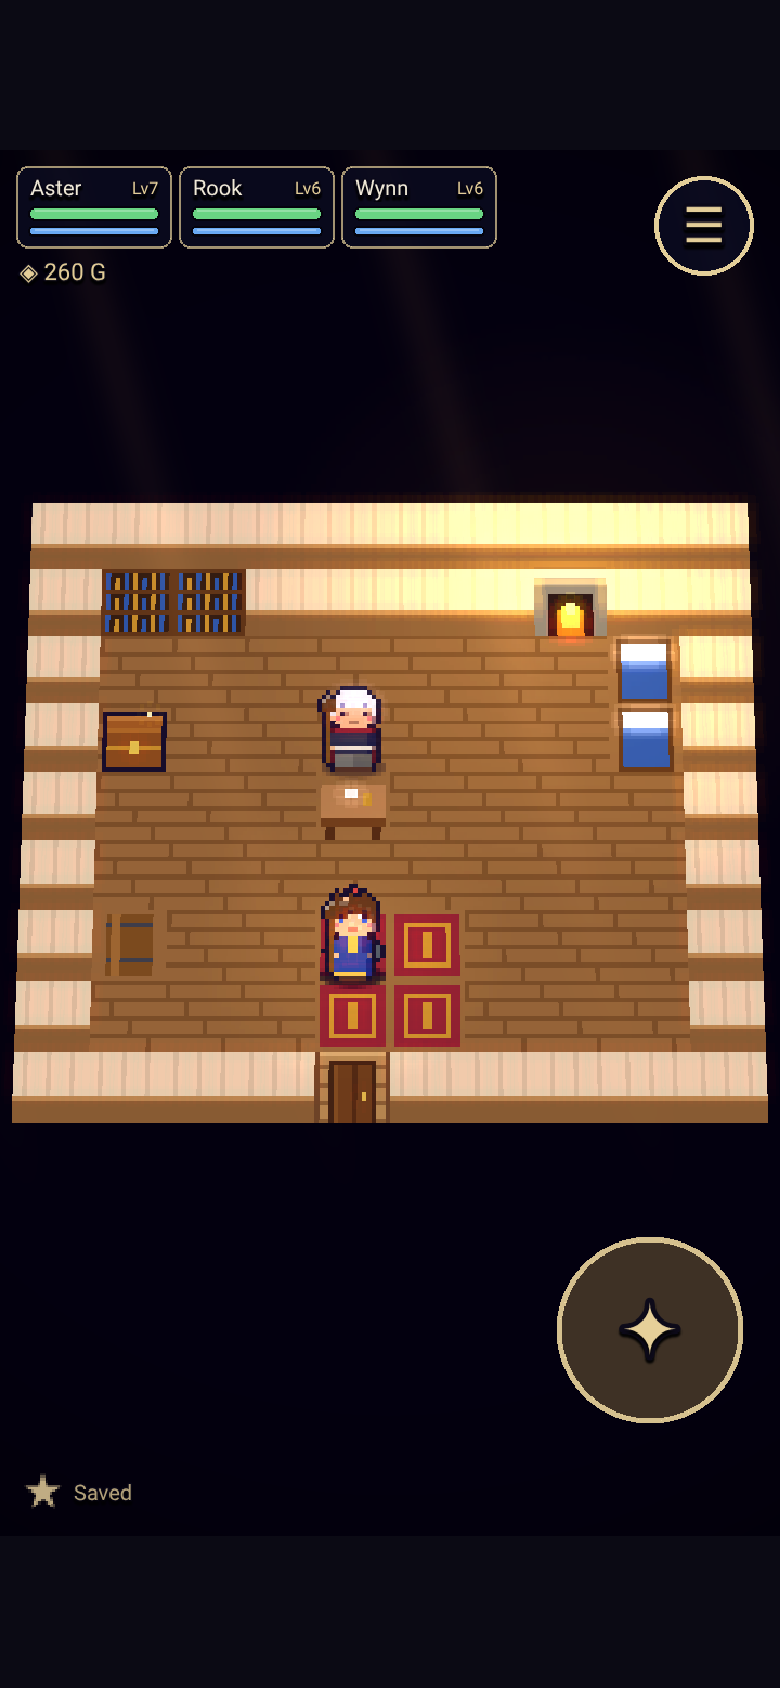
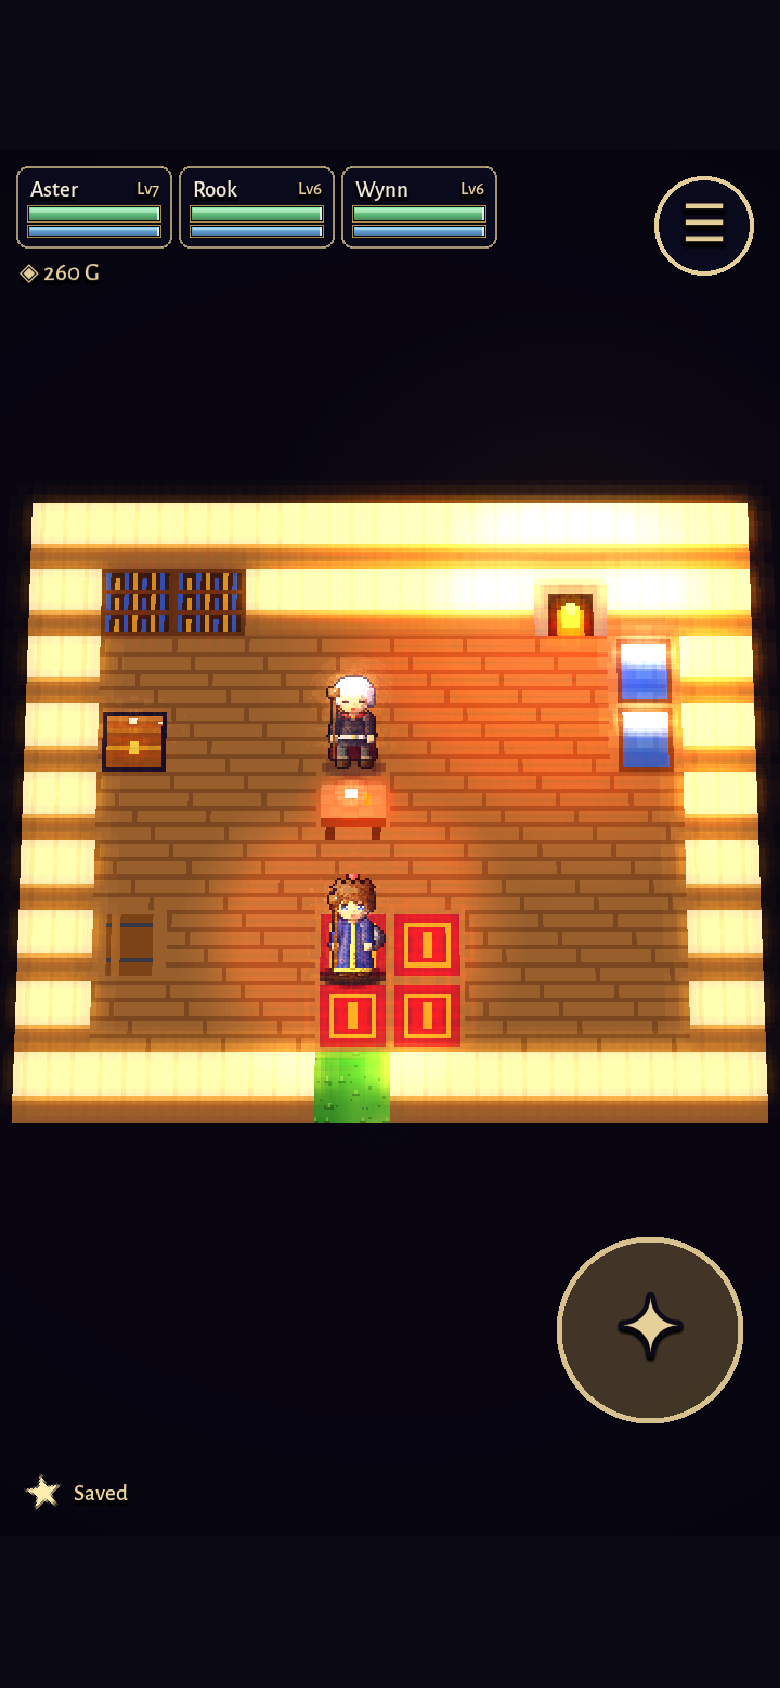
Battle: OT2-style dash attacks with camera lean + dust, ornate party cards with painted mini-portraits, bevelled gradient gauges

diff --git a/src/scenes/BattleScene.ts b/src/scenes/BattleScene.ts
@@ -1,6 +1,7 @@
 import { DioramaFX, diorama } from '../fx/diorama';
+import { ensurePortrait } from '../gfx/portrait';
 import Phaser from 'phaser';
-import { txt, panel, W, H, COL, ListMenu, drawBar, card, MenuItem, SERIF } from '../ui/widgets';
+import { txt, panel, drawPanel, W, H, COL, ListMenu, drawBar, card, MenuItem, SERIF } from '../ui/widgets';
 import { Input } from '../ui/input';
 import { Audio } from '../systems/audio';
 import { Game, stats, Member, skillsOf, gainXp } from '../systems/state';
@@ -72,7 +73,7 @@ export class BattleScene extends Phaser.Scene {
     this.party.forEach((m, i) => {
       const x = pn === 1 ? 590 : 545 + (i % 2) * 70 - (pn > 3 ? 10 : 0) + i * 12, y = pn === 1 ? 640 : 500 + i * (pn > 3 ? 72 : 88);
       const spr = this.add.sprite(x, y, ensureDollHd(this, specOf(m)), 3).setOrigin(0.5, 1).setScale(3.9).setDepth(y / 100);
-      spr.setData('hx', x);
+      spr.setData('hx', x); spr.setData('hy', y);
       this.tweens.add({ targets: spr, scaleY: 3.9 * 1.02, yoyo: true, repeat: -1, duration: 900 + i * 120, ease: 'Sine.inOut' });
       this.add.image(x, y - 4, 'shadow').setScale(6, 3).setDepth(-0.4);
       if (m.hp <= 0) spr.setTint(0x553355).setAngle(90);
@@ -85,15 +86,35 @@ export class BattleScene extends Phaser.Scene {
     this.run();
   }
   skip = false; bgImg?: Phaser.GameObjects.Image;
+  /** OT2-style run-up: the party member sprints to the target (walk cycle + dust), the camera leans in, then returns. */
+  dash(spr: Phaser.GameObjects.Sprite, x: number, y: number, out: boolean): Promise<void> {
+    return new Promise(res => {
+      if (fast()) { spr.setPosition(x, y); res(); return; }
+      const dir = out ? 1 : 2; let f = 0; const seq = [1, 0, 2, 0];
+      const tm = this.time.addEvent({ delay: 70, loop: true, callback: () => { spr.setFrame(dir * 3 + seq[f++ % 4]); } });
+      spr.setFlipX(!out && false); if (!out) spr.setFrame(6);
+      const dust = this.add.particles(0, 0, 'dot', { follow: spr, lifespan: 380, speedX: { min: out ? 20 : -20, max: out ? 80 : -80 }, speedY: { min: -30, max: -6 }, scale: { start: 1.6, end: 0 }, alpha: { start: 0.55, end: 0 }, tint: 0xd8c8a8, frequency: 30 }).setDepth(spr.depth - 0.01);
+      const cam = this.cameras.main;
+      if (out) { cam.zoomTo(1.07, 260, Phaser.Math.Easing.Quadratic.Out, true); cam.pan(W / 2 + (x - W / 2) * 0.35, H / 2 + (y - 120 - H / 2) * 0.25, 260, Phaser.Math.Easing.Quadratic.Out, true); }
+      else { cam.zoomTo(1, 320, Phaser.Math.Easing.Sine.InOut, true); cam.pan(W / 2, H / 2, 320, Phaser.Math.Easing.Sine.InOut, true); }
+      spr.setDepth(out ? 60 : y / 100);
+      this.tweens.add({ targets: spr, x, y, duration: out ? 230 : 280, ease: out ? 'Quad.in' : 'Quad.out', onComplete: () => { tm.remove(); dust.stop(); this.time.delayedCall(400, () => dust.destroy()); spr.setFrame(3); if (!out) spr.setDepth(y / 100); res(); } });
+    });
+  }
   buildCards() {
     this.cards.forEach(c => c.destroy()); this.cards = [];
     const n = this.party.length; const X0 = 150; const cw = (W - X0 - 16 - (n - 1) * 8) / n;
     this.party.forEach((m, i) => {
       const s = stats(m); const c = this.add.container(X0 + i * (cw + 8), 12);
-      const g = this.add.graphics(); g.fillStyle(m.hp <= 0 ? 0x3a0a1a : 0x0b0c22, 0.88); g.fillRoundedRect(0, 0, cw, 100, 12); g.lineStyle(3, m.hp <= 0 ? 0xff6b6b : m.hp < s.hp / 4 ? 0xffb050 : COL.gold); g.strokeRoundedRect(1, 1, cw - 2, 98, 12);
-      c.add(g); c.add(txt(this, 12, 6, m.name, n > 3 ? 20 : 24, m.hp <= 0 ? COL.red : COL.text)); c.add(txt(this, cw - 10, 8, 'Lv' + m.level, 18, COL.goldS).setOrigin(1, 0));
-      c.add(txt(this, 12, 38, `HP ${m.hp}`, 20)); const hb = this.add.graphics({ x: 12, y: 62 }); drawBar(hb, cw - 24, 12, m.hp / s.hp, COL.hp); c.add(hb);
-      c.add(txt(this, cw - 12, 38, `MP ${m.mp}`, 20, '#a8d0ff').setOrigin(1, 0)); const mb = this.add.graphics({ x: 12, y: 80 }); drawBar(mb, cw - 24, 10, s.mp ? m.mp / s.mp : 0, COL.mp); c.add(mb);
+      const g = this.add.graphics(); drawPanel(g, cw, 100, 0.9);
+      if (m.hp <= 0 || m.hp < s.hp / 4) { g.lineStyle(2, m.hp <= 0 ? 0xff6b6b : 0xffb050, 0.9); g.strokeRect(6, 6, cw - 12, 88); }
+      c.add(g);
+      // mini portrait (painted bust, head crop) when there is room
+      let ox = 0; if (cw >= 200) { const pk = ensurePortrait(this, specOf(m)); const im = this.add.image(10, 8, pk).setOrigin(0).setCrop(52, 40, 136, 116).setScale(0.72); im.x = 10 - 52 * 0.72; im.y = 8 - 40 * 0.72; if (m.hp <= 0) im.setTint(0x704060); c.add(im); ox = 104; const fr = this.add.graphics(); fr.lineStyle(2, 0xe8cc84, 1); fr.strokeRect(10, 8, 98, 84); c.add(fr); }
+      const iw = cw - ox;
+      c.add(txt(this, ox + 12, 4, m.name, n > 3 ? 20 : 24, m.hp <= 0 ? COL.red : COL.text, { fontFamily: SERIF })); c.add(txt(this, cw - 10, 8, 'Lv' + m.level, 18, COL.goldS).setOrigin(1, 0));
+      c.add(txt(this, ox + 12, 36, `HP ${m.hp}`, 20)); const hb = this.add.graphics({ x: ox + 12, y: 62 }); drawBar(hb, iw - 24, 12, m.hp / s.hp, COL.hp); c.add(hb);
+      c.add(txt(this, cw - 12, 36, `MP ${m.mp}`, 20, '#a8d0ff').setOrigin(1, 0)); const mb = this.add.graphics({ x: ox + 12, y: 80 }); drawBar(mb, iw - 24, 10, s.mp ? m.mp / s.mp : 0, COL.mp); c.add(mb);
       if (m.poisoned) c.add(txt(this, cw / 2, 6, '☠', 20, '#c070ff').setOrigin(0.5, 0));
       this.cards.push(c);
     });
@@ -258,14 +279,16 @@ export class BattleScene extends Phaser.Scene {
       if (Math.random() < Phaser.Math.Clamp(0.45 + (pa - ea) * 0.03, 0.25, 0.9) || this.turn > 2) { Audio.sfx('miss'); await this.msg('You got away safely!'); this.end('flee'); return; }
       await this.msg('But the monsters block the way!'); return;
     }
-    // hop
-    this.tweens.add({ targets: spr, x: spr.getData('hx') - 90, yoyo: true, duration: 140, ease: 'Quad.out' });
     if (a.kind === 'attack') {
       let t = this.retarget(a.target!); if (!t) return;
-      await this.msg(`${m.name} attacks!`, 250);
+      this.msg(`${m.name} attacks!`, 250);
+      await this.dash(spr, t.x + 70 + t.spr.displayWidth * 0.25, t.y + 6, true);
       await this.physHit(m, s.atk * b.atk, t, 1, m.voc === 'thief' ? 1 / 14 : 1 / 28, 'slash');
+      await this.dash(spr, spr.getData('hx'), spr.getData('hy'), false);
       return;
     }
+    // hop
+    this.tweens.add({ targets: spr, x: spr.getData('hx') - 90, yoyo: true, duration: 140, ease: 'Quad.out' });
     if (a.kind === 'item') {
       const it = ITEMS[a.item!]; Game.addItem(it.id, -1);
       await this.msg(`${m.name} uses ${it.name}!`, 350);

diff --git a/src/ui/widgets.ts b/src/ui/widgets.ts
@@ -222,7 +222,16 @@ export function bar(s: Phaser.Scene, x: number, y: number, w: number, h: number,
   const g = s.add.graphics({ x, y }); drawBar(g, w, h, frac, color); return g;
 }
 export function drawBar(g: Phaser.GameObjects.Graphics, w: number, h: number, frac: number, color: number) {
-  g.clear(); g.fillStyle(0x05040c, 1); g.fillRoundedRect(0, 0, w, h, h / 2);
+  g.clear();
+  g.fillStyle(0x000000, 0.45); g.fillRect(-1, 1, w + 2, h + 1);
+  g.fillStyle(0x07060f, 1); g.fillRect(0, 0, w, h); g.fillStyle(0x1a1830, 1); g.fillRect(1, h - 2, w - 2, 1);
   const f = Math.max(0, Math.min(1, frac));
-  if (f > 0) { g.fillStyle(frac < 0.25 && color === COL.hp ? 0xff6b6b : color, 1); g.fillRoundedRect(2, 2, Math.max(h - 4, (w - 4) * f), h - 4, (h - 4) / 2); g.fillStyle(0xffffff, 0.3); g.fillRect(6, 3, Math.max(0, (w - 12) * f), 2); }
+  if (f > 0) {
+    const c = frac < 0.25 && color === COL.hp ? 0xff6b6b : color; const fw = Math.max(2, (w - 2) * f);
+    const col = Phaser.Display.Color.IntegerToColor(c); const dark = col.clone().darken(30).color, lite = col.clone().lighten(22).color;
+    g.fillGradientStyle(lite, lite, dark, dark, 1); g.fillRect(1, 1, fw, h - 2);
+    g.fillStyle(0xffffff, 0.38); g.fillRect(2, 2, Math.max(0, fw - 2), Math.max(1, Math.floor((h - 2) / 3)));
+    g.fillStyle(0xffffff, 0.8); g.fillRect(fw - 1, 1, 2, h - 2);
+  }
+  g.lineStyle(1, 0xc9a65a, 0.9); g.strokeRect(-0.5, -0.5, w + 1, h + 1);
 }

diff --git a/src/scenes/OverlayScene.ts b/src/scenes/OverlayScene.ts
@@ -68,7 +68,7 @@ export class OverlayScene extends Phaser.Scene {
         const shards: Phaser.GameObjects.Image[] = [];
         for (let r = 0; r < rows; r++) for (let c = 0; c < cols; c++) {
           const im = this.add.image(c * cw + cw / 2, r * ch + ch / 2, '__snap').setCrop(c * cw * sw, r * ch * sh, cw * sw, ch * sh);
-          im.setDisplayOrigin((c * cw + cw / 2) * sw, (r * ch + ch / 2) * sh).setScale(1 / sw, 1 / sh); root.add(im); shards.push(im);
+          im.setDisplayOrigin((c * cw + cw / 2) * sw, (r * ch + ch / 2) * sh).setScale(1.03 / sw, 1.03 / sh); root.add(im); shards.push(im);
         }
         const flash = this.add.rectangle(0, 0, W, H, 0xffffff, 0.85).setOrigin(0).setBlendMode(Phaser.BlendModes.ADD); root.add(flash);
         this.tweens.add({ targets: flash, alpha: 0, duration: 260 });
